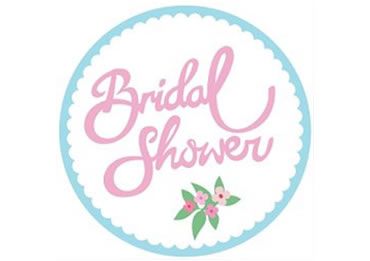
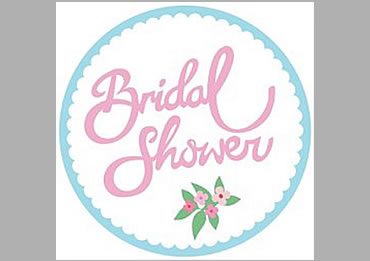
up

diff --git a/index.html b/index.html
@@ -360,7 +360,7 @@
 				<div class="row">
 					<div class="col-sm-4" data-scroll-reveal="enter from the left after 0.25s">
 						<div class="blog-short">
-							<img src="images/event7.jpg" class="img-responsive" alt="" />
+							<img src="images/event2.jpg" class="img-responsive" alt="" />
 							<h5>Bridal Shower</h5>
 							<h6>August 1st,  2015</h6>
 							<!--<p>Lorem ipsum dolor sit amet, consectetur adipiscing elit. Praesent sit amet pharetra nunc, non scelerisque ligula. Cras vel justo nulla. Vestibulum a sollicitudin metus, faucibus fermentum leo.</p>-->
